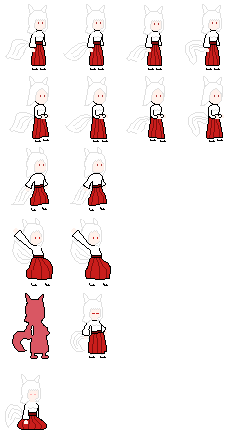
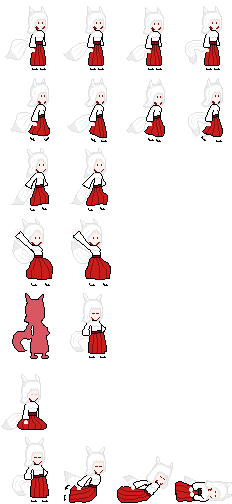
プレイヤーの死亡アニメーション追加、マップ追加

diff --git a/Player.cpp b/Player.cpp
@@ -31,6 +31,8 @@ void Player::Initialize(Camera* camera, Vector2& pos)
 
 	ui_ = new UI();
 	ui_->Initialize();
+
+	deathCount = 0.01f;
 }
 
 void Player::Update()
@@ -197,7 +199,7 @@ void Player::Move()
 
 	if (onGround)
 	{
-		if (Keys::IsTrigger(DIK_SPACE))
+		if (Keys::IsTrigger(DIK_SPACE) || Keys::IsTrigger(DIK_Z))
 		{
 			Novice::PlayAudio(jumpSFX, 0, 0.5f);
 			vel_.y = kJumpAcceleration; // ジャンプの加速度を設定
@@ -526,18 +528,30 @@ void Player::OnCollisionNomal(const Enemies* enemies)
 		return;
 	}
 
-	// 点滅アニメーション切り替え
-	animationBehaviorNext_ = AnimationBehavior::kDamage;
-
 	// ダメージ処理
 	nomalBodyHP--;
+
+	// HPが0以下になったら死亡フラグを立てる
+	if (nomalBodyHP <= 0)
+	{
+		animationBehaviorNext_ = AnimationBehavior::kDeath;
+	}
+
+	// アニメーションが終わったら死亡フラグをオンにする
+	if (deathCount <= 0.0f)
+	{
+		isDead_ = true;
+	}
 
 	// ダメージ無敵時間をリセット
 	damageCooldown_ = damageCooldownMax;
 
 	// ノックバック処理
-	if (enemies)
+	if (enemies && nomalBodyHP > 0)
 	{
+		// 点滅アニメーション切り替え
+		animationBehaviorNext_ = AnimationBehavior::kDamage;
+
 		Vector2 enemyPos = enemies->GetPos();
 		//Vector2 knockDir = (worldTransform_.translation_ - enemyPos).normalize();
 
@@ -552,12 +566,6 @@ void Player::OnCollisionNomal(const Enemies* enemies)
 
 		behaviorNext_ = Behavior::kKnockback;
 		BehaviorKnockbackInitialize();
-	}
-
-	// HPが0以下になったら死亡フラグを立てる
-	if (nomalBodyHP <= 0)
-	{
-		isDead_ = true;
 	}
 }
 
@@ -611,7 +619,7 @@ void Player::BehaviorRootUpdate()
 		coolTime_ = max(0.0f, coolTime_);
 	}
 
-	if (Keys::IsTrigger(DIK_F) && onGround)
+	if ((Keys::IsTrigger(DIK_F) && onGround) || (Keys::IsTrigger(DIK_X) && onGround))
 	{
 		templrDirection_ = lrDirection_;
 		SwitchBody();
@@ -746,7 +754,7 @@ void Player::AstralBodyBehaviorRootUpdate()
 	}
 
 	// 本体に戻る
-	if (Keys::IsTrigger(DIK_F))
+	if (Keys::IsTrigger(DIK_F) || Keys::IsTrigger(DIK_X))
 	{
 		astralBodyTimer_ = 0.0f;
 		behaviorNext_ = Behavior::kRoot;
@@ -764,7 +772,7 @@ void Player::AstralBodyBehaviorRootUpdate()
 	}
 
 	// 弾発射
-	if (Keys::IsPress(DIK_SPACE) && attackTimer <= 0)
+	if ((Keys::IsPress(DIK_SPACE) && attackTimer <= 0) || (Keys::IsTrigger(DIK_Z) && attackTimer <= 0))
 	{
 		Novice::PlayAudio(shootSFX, 0, 1.0f);
 		attackTimer = kAttackTime; // クールタイムリセット
@@ -907,7 +915,9 @@ void Player::Animation()
 		case Player::AnimationBehavior::kDamage:
 			animationMax = 2;
 			break;
-
+		case Player::AnimationBehavior::kDeath:
+			animationMax = 4;
+			break;
 		case Player::AnimationBehavior::kAstralBodyIdle:
 			animationMax = 1;
 			break;
@@ -985,6 +995,12 @@ void Player::Animation()
 	case Player::AnimationBehavior::kAstralBodyIdle:
 
 		break;
+
+	case Player::AnimationBehavior::kDeath:
+		deathCount -= frameTime;
+
+		break;
+		
 	default:
 		break;
 	}

diff --git a/Player.h b/Player.h
@@ -32,8 +32,9 @@ public:
 		kMove,
 		kJumpUp,
 		kJumpDown,
-		kDamage,         
+		kDamage, 
 		kAstralBodyIdle,
+		kDeath,
 		kAstralRoot,     // 幽体通常状態
 		kAstralAttack,   // 幽体攻撃
 		kAstralDeath,    // 幽体死亡
@@ -215,6 +216,7 @@ private:
 	const float frameTime = 1.0f / 60.0f;
 	int damageCooldown_ = 0;
 	const int damageCooldownMax = 30;
+	float deathCount;
 
 	float legSpeed = 0.05f;
 

diff --git a/MapChipField.cpp b/MapChipField.cpp
@@ -22,6 +22,10 @@ namespace {
 		{"12", MapChipType::EnemyMummy},
 		{"13", MapChipType::kPlayer},
 		{"14", MapChipType::kClear},
+		{"15", MapChipType::kButton4},
+		{"16", MapChipType::kGate4},
+		{"17", MapChipType::kButton5},
+		{"18", MapChipType::kGate5},
 
 	};
 }
